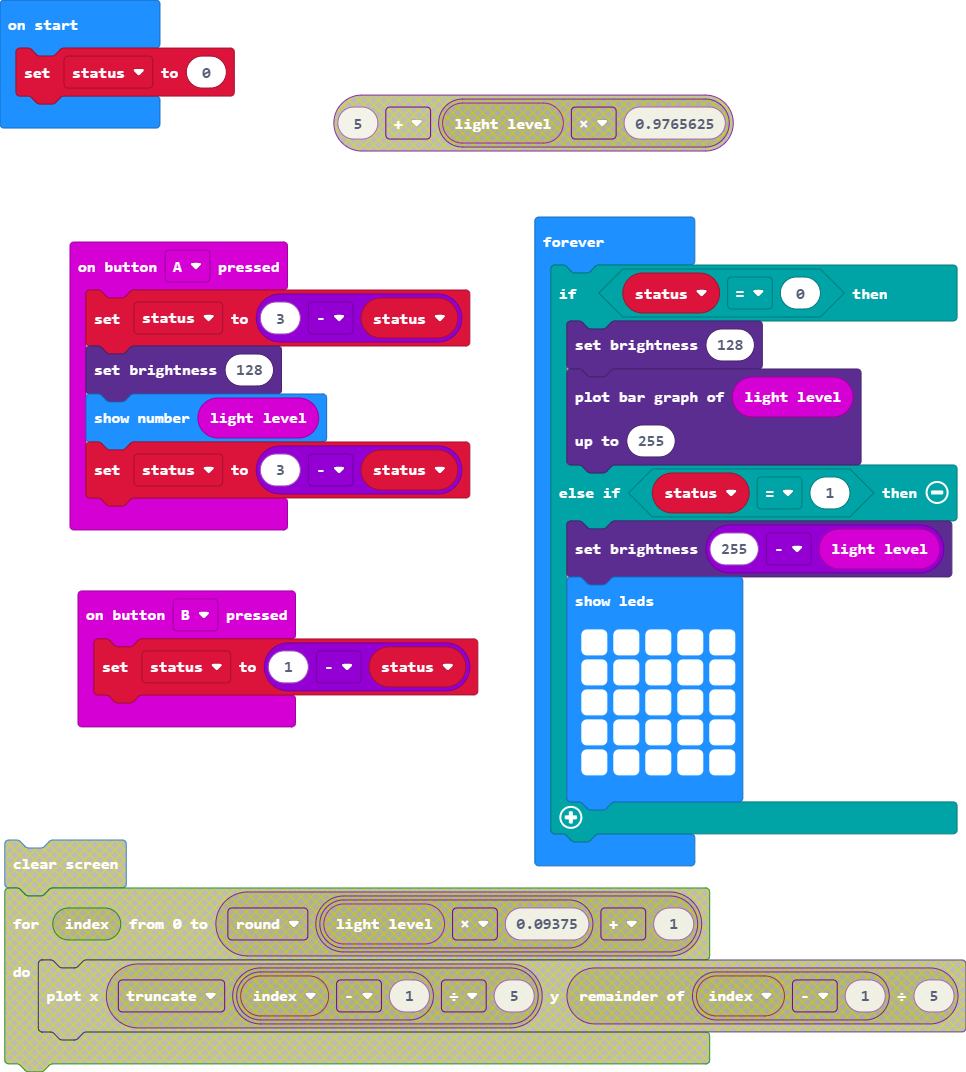
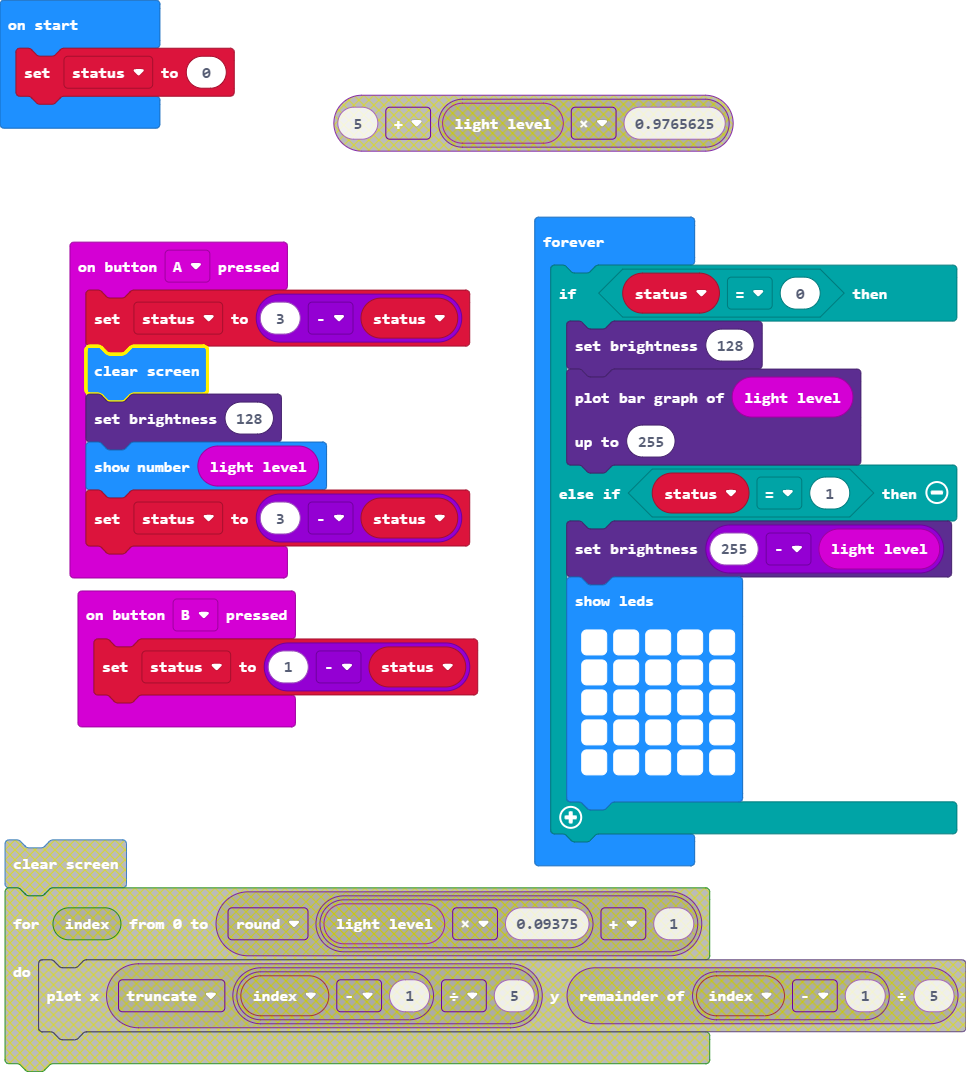
Update main.blocks, main.ts

diff --git a/main.ts b/main.ts
@@ -1,5 +1,6 @@
 input.onButtonPressed(Button.A, function () {
     status = 3 - status
+    basic.clearScreen()
     led.setBrightness(128)
     basic.showNumber(input.lightLevel())
     status = 3 - status
